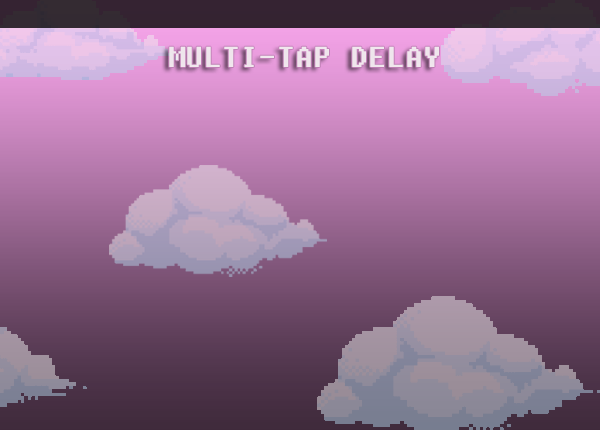
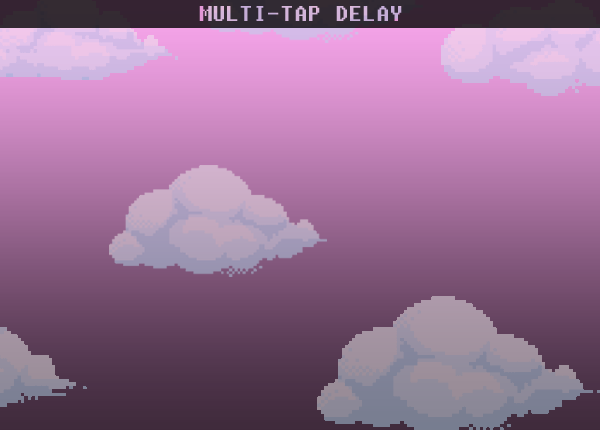
GUI Updates

Changed region(s): [[0.27, 0.0, 0.75, 0.1814]]

diff --git a/src/PluginEditor.cpp b/src/PluginEditor.cpp
@@ -9,7 +9,7 @@ Multitap_delayAudioProcessorEditor::Multitap_delayAudioProcessorEditor (Multitap
     setSize (600, 430);
 
     int startX = 7;
-    int startY = 120;
+    int startY = 100;
     int knobSize = 84;
 
     graphics.setColour (Slider::textBoxOutlineColourId, juce::Colours::transparentBlack);
@@ -75,11 +75,8 @@ Multitap_delayAudioProcessorEditor::Multitap_delayAudioProcessorEditor (Multitap
         {
             page1Knobs[knob - 1]->setTextBoxStyle(juce::Slider::NoTextBox, false, 70, 20);
             page1Knobs[knob - 1]->setPopupDisplayEnabled(true, true, getTopLevelComponent());
-            page1Knobs[knob - 1]->setBounds(page1Knobs[knob - 2]->getX() + page1Knobs[knob - 2]->getWidth() - 11,
-                 startY + 110, knobSize - 20, knobSize - 22); //y +70
-
-            //page1Attachments[knob - 1] = std::make_unique<juce::AudioProcessorValueTreeState::
-            //    SliderAttachment>(audioProcessor.apvts, "FEEDBACK_" + std::to_string(knob / 2) + "_ID", *page1Knobs[knob - 1]);
+            page1Knobs[knob - 1]->setBounds(page1Knobs[knob - 2]->getX() + page1Knobs[knob - 2]->getWidth() - 2,
+                 startY + 60, knobSize - 40, knobSize - 42);
         }
         
     } 
@@ -128,10 +125,33 @@ Multitap_delayAudioProcessorEditor::~Multitap_delayAudioProcessorEditor()
 void Multitap_delayAudioProcessorEditor::paint (juce::Graphics& g)
 {
     g.drawImageAt(graphics.getBackground(), 0, 0);
-    g.drawImageAt(screensImage, 0, 0);
+    g.drawImageAt(screensImage, 0, -20);
+
+    labelFont.setBold(false);
+    labelFont.setStyleFlags(juce::Font::FontStyleFlags::plain);
+    g.setFont(labelFont);
+    labelFont.setHeight(14);
 
     g.setColour(juce::Colours::ivory);
-    g.drawFittedText("BPM", bpmTextBox->getBounds().withHeight(24).translated(-bpmTextBox->getWidth() + 2, -1), Justification::centred, 1);
+    g.drawFittedText("BPM", bpmTextBox->getBounds().withHeight(24).translated(-bpmTextBox->getWidth() + 3, -1), Justification::centred, 1);
+    
+    labelFont.setHeight(18);
+
+    for(int knob = 1; knob <= PAGE_ONE_KNOBS; ++knob)
+    {
+        if (knob % 2 != 0)
+        {
+            
+            g.drawFittedText("TIME " + std::to_string((knob + 1) / 2), page1Knobs[knob - 1]->getBounds().withHeight(24).translated(-1, -27), Justification::centred, 1);
+            g.drawFittedText("TIME " + std::to_string((knob + 1) / 2), page1Knobs[knob - 1]->getBounds().withHeight(24).translated(-1, -27), Justification::centred, 1);            
+            
+        }
+        else
+        {
+            g.drawFittedText("FDBK " + std::to_string(knob / 2), page1Knobs[knob - 1]->getBounds().withHeight(24).translated(0, 40), Justification::centred, 1);
+            g.drawFittedText("FDBK " + std::to_string(knob / 2), page1Knobs[knob - 1]->getBounds().withHeight(24).translated(0, 40), Justification::centred, 1);
+        }
+    }
 }
 
 void Multitap_delayAudioProcessorEditor::resized()

diff --git a/src/PluginEditor.h b/src/PluginEditor.h
@@ -74,6 +74,8 @@ private:
     GUIGraphics graphics;
     juce::LookAndFeel_V4 boxLNF;
 
+    juce::Font labelFont{Font{juce::Typeface::createSystemTypefaceFor(BinaryData::varelaround_regular_ttf, BinaryData::varelaround_regular_ttfSize)}};
+
     Multitap_delayAudioProcessor& audioProcessor;
 
     JUCE_DECLARE_NON_COPYABLE_WITH_LEAK_DETECTOR (Multitap_delayAudioProcessorEditor)
